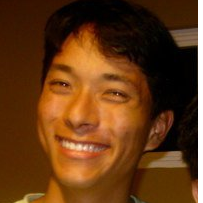
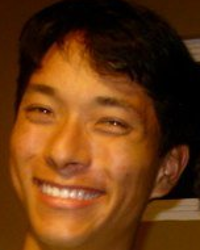
Add Victor's picture, and put him in as the missing child.

diff --git a/yoMissingKids/client/app/report/report.html b/yoMissingKids/client/app/report/report.html
@@ -2,31 +2,14 @@
     <center>
         <h1>Report a sighting of:</h1>
 
-        <h2>Mason Fernandez</h2>
-        <img class="imagePic" src="http://www.missingkids.com/photographs/ICMC1009c3.jpg"/>
+        <h2>Victor Nakada</h2>
+        <img class="imagePic" src="http://scottnakada.github.io/MissingKids/images/resources/Victor.png"/>
         <br><br>
 
-        <h3>
-            <p>
-                If you have seen Mason, please notify the authorities so we can investigate.
-                We will need to follow-up with you on the report. If you place a report, we
-                will forward your email and phone number to the National Center for Missing
-                and Exploited Children, as well as call their toll free number.
-            </p>
-        </h3>
         <a href="/thankYou">
             <button class="btn btn-info">Report Sighting</button>
         </a>
 
-        <h3>
-            <p>
-                If you would prefer to remain anonymous, we will tell the National Center that
-                there has been a sighting; but we will not release your phone or e-mail. However,
-                if they need to contact you for further details, they will be able to e-mail us, and
-                we can forward their info request to you, and you can anonymously reply to the email
-                thru us.
-            </p>
-        </h3>
         <a href="/thankYou">
             <button class="btn btn-info">Anonymous Report</button>
         </a>

diff --git a/yoMissingKids/client/index.html b/yoMissingKids/client/index.html
@@ -17,8 +17,8 @@
     <!-- Place favicon.ico and apple-touch-icon.png in the root directory -->
     <!-- build:css(client) app/vendor.css -->
     <!-- bower:css -->
-    <link rel="stylesheet" href="bower_components/bootstrap/dist/css/bootstrap.css" />
-    <link rel="stylesheet" href="bower_components/angularjs-toaster/toaster.css" />
+    <link rel="stylesheet" href="bower_components/bootstrap/dist/css/bootstrap.css"/>
+    <link rel="stylesheet" href="bower_components/angularjs-toaster/toaster.css"/>
     <!-- endbower -->
     <!-- endbuild -->
     <!-- build:css({.tmp,client}) app/app.css -->
@@ -65,8 +65,9 @@
     <div class="container">
         <h1>Kids Hope Network</h1>
 
-        <p class="lead">This app teaches people to recognise the faces of missing children;
-            while improving their face to name association skills.</p>
+        <p class="lead">Crowdsourcing the Search for Missing Children. We give hope to
+            the friends and family of missing children, and also let the missing/exploited
+            children know that we care and are looking for them</p>
     </div>
 </header>
 

diff --git a/ionMissingKids/www/game1/game1B/game1B.html b/ionMissingKids/www/game1/game1B/game1B.html
@@ -1,7 +1,7 @@
 <ion-view view-title="Meet Kid 3" name="meetKid3-view">
     <ion-content class="padding">
         <center>
-            <h1>Click on the picture of Mason</h1>
+            <h1>Click on the picture of Victor</h1>
             <a href="#/app/error2">
                 <img class="imagePic" src="http://www.missingkids.com/photographs/NCMC1245355c1.jpg"/>
             </a>
@@ -26,7 +26,7 @@
                 <img class="imagePic" src="http://www.missingkids.org/photographs/NCMC1074226c1.jpg"/>
             </a>
             <a href="#/app/game1C">
-                <img class="imagePic" src="http://www.missingkids.com/photographs/ICMC1009c3.jpg"/>
+                <img class="imagePic" src="http://scottnakada.github.io/MissingKids/images/resources/Victor.png"/>
             </a>
             <a href="#/app/error2">
                 <img class="imagePic" src="http://www.missingkids.org/photographs/NCMC1181382e1.jpg"/>

diff --git a/ionMissingKids/www/game1/game1A/game1A.html b/ionMissingKids/www/game1/game1A/game1A.html
@@ -1,12 +1,12 @@
 <ion-view view-title="Meet Kid 2" name="meetKid2-view">
     <ion-content class="padding">
         <center>
-            <h1>Click on the picture of Mason</h1>
+            <h1>Click on the picture of Victor</h1>
             <a href="#/app/error">
                 <img class="imagePic" src="http://www.missingkids.com/photographs/NCMC1245355c1.jpg"/>
             </a>
             <a href="#/app/game1B">
-                <img class="imagePic" src="http://www.missingkids.com/photographs/ICMC1009c3.jpg"/>
+                <img class="imagePic" src="http://scottnakada.github.io/MissingKids/images/resources/Victor.png"/>
             </a>
             <a href="#/app/error">
                 <img class="imagePic" src="http://www.missingkids.com/photographs/NCMC1138907e1.jpg"/>

diff --git a/yoMissingKids/client/app/game1/game1B/game1B.html b/yoMissingKids/client/app/game1/game1B/game1B.html
@@ -25,7 +25,7 @@
             <img class="imagePic" src="http://www.missingkids.org/photographs/NCMC1074226c1.jpg"/>
         </a>
         <a href="/game1C">
-            <img class="imagePic" src="http://www.missingkids.com/photographs/ICMC1009c3.jpg"/>
+            <img class="imagePic" src="http://scottnakada.github.io/MissingKids/images/resources/Victor.png"/>
         </a>
         <a href="/error2">
             <img class="imagePic" src="http://www.missingkids.org/photographs/NCMC1181382e1.jpg"/>

diff --git a/ionMissingKids/www/game1/game1C/game1C.html b/ionMissingKids/www/game1/game1C/game1C.html
@@ -3,8 +3,8 @@
         <center>
             <h1>Congratulations, Thanks for helping us find:</h1>
 
-            <h2>Mason Fernandez</h2>
-            <img class="imagePic" src="http://www.missingkids.com/photographs/ICMC1009c3.jpg"/>
+            <h2>Victor Nakada</h2>
+            <img class="imagePic" src="http://scottnakada.github.io/MissingKids/images/resources/Victor.png"/>
             <br><br>
             <a href="#/app/home">
                 <button class="button button-block button-calm">

diff --git a/yoMissingKids/client/app/game1/game1A/game1A.html b/yoMissingKids/client/app/game1/game1A/game1A.html
@@ -5,7 +5,7 @@
             <img class="imagePic" src="http://www.missingkids.com/photographs/NCMC1245355c1.jpg"/>
         </a>
         <a href="/game1B">
-            <img class="imagePic" src="http://www.missingkids.com/photographs/ICMC1009c3.jpg"/>
+            <img class="imagePic" src="http://scottnakada.github.io/MissingKids/images/resources/Victor.png"/>
         </a>
         <a href="/error">
             <img class="imagePic" src="http://www.missingkids.com/photographs/NCMC1138907e1.jpg"/>

diff --git a/ionMissingKids/www/game1/game1/game1.html b/ionMissingKids/www/game1/game1/game1.html
@@ -3,8 +3,8 @@
         <center>
             <h1>Today we are looking for:</h1>
 
-            <h2>Mason Fernandez</h2>
-            <img class="imagePic" src="http://www.missingkids.com/photographs/ICMC1009c3.jpg"/>
+            <h2>Victor Nakada</h2>
+            <img class="imagePic" src="http://scottnakada.github.io/MissingKids/images/resources/Victor.png"/>
             <br><br>
             <a href="#/app/game1A">
                 <button class="button button-block button-calm">

diff --git a/yoMissingKids/client/app/game1/game1/game1.html b/yoMissingKids/client/app/game1/game1/game1.html
@@ -2,8 +2,8 @@
     <center>
         <h1>Today we are looking for:</h1>
 
-        <h2>Mason Fernandez</h2>
-        <img class="imagePic" src="http://www.missingkids.com/photographs/ICMC1009c3.jpg"/>
+        <h2>Victor Nakada</h2>
+        <img class="imagePic" src="http://scottnakada.github.io/MissingKids/images/resources/Victor.png"/>
         <br><br>
         <a href="/game1A">
             <button class="btn btn-info">Start Game</button>

diff --git a/yoMissingKids/client/app/results/results.html b/yoMissingKids/client/app/results/results.html
@@ -4,8 +4,8 @@
 
         <h3>Please select the child from the results that matches the child you saw</h3>
 
-        <h2>Mason Fernandez</h2>
-        <a href="/report"><img class="imagePic" src="http://www.missingkids.com/photographs/ICMC1009c3.jpg"/></a>
+        <h2>Victor Nakada</h2>
+        <a href="/report"><img class="imagePic" src="http://scottnakada.github.io/MissingKids/images/resources/Victor.png"/></a>
 
     </center>
 </div>

diff --git a/ionMissingKids/www/report/report.html b/ionMissingKids/www/report/report.html
@@ -3,8 +3,8 @@
         <center>
             <h1>Report a sighting of:</h1>
 
-            <h2>Mason Fernandez</h2>
-            <img class="imagePic" src="http://www.missingkids.com/photographs/ICMC1009c3.jpg"/>
+            <h2>Victor Nakada</h2>
+            <img class="imagePic" src="http://scottnakada.github.io/MissingKids/images/resources/Victor.png"/>
             <br>
 
             <a href="#/app/thankYou">

diff --git a/ionMissingKids/www/results/results.html b/ionMissingKids/www/results/results.html
@@ -7,7 +7,7 @@
 
             <a href="#/app/report">
                 <img class="imagePic"
-                     src="http://www.missingkids.com/photographs/ICMC1009c3.jpg"/>
+                     src="http://scottnakada.github.io/MissingKids/images/resources/Victor.png"/>
             </a>
         </center>
     </ion-content>
